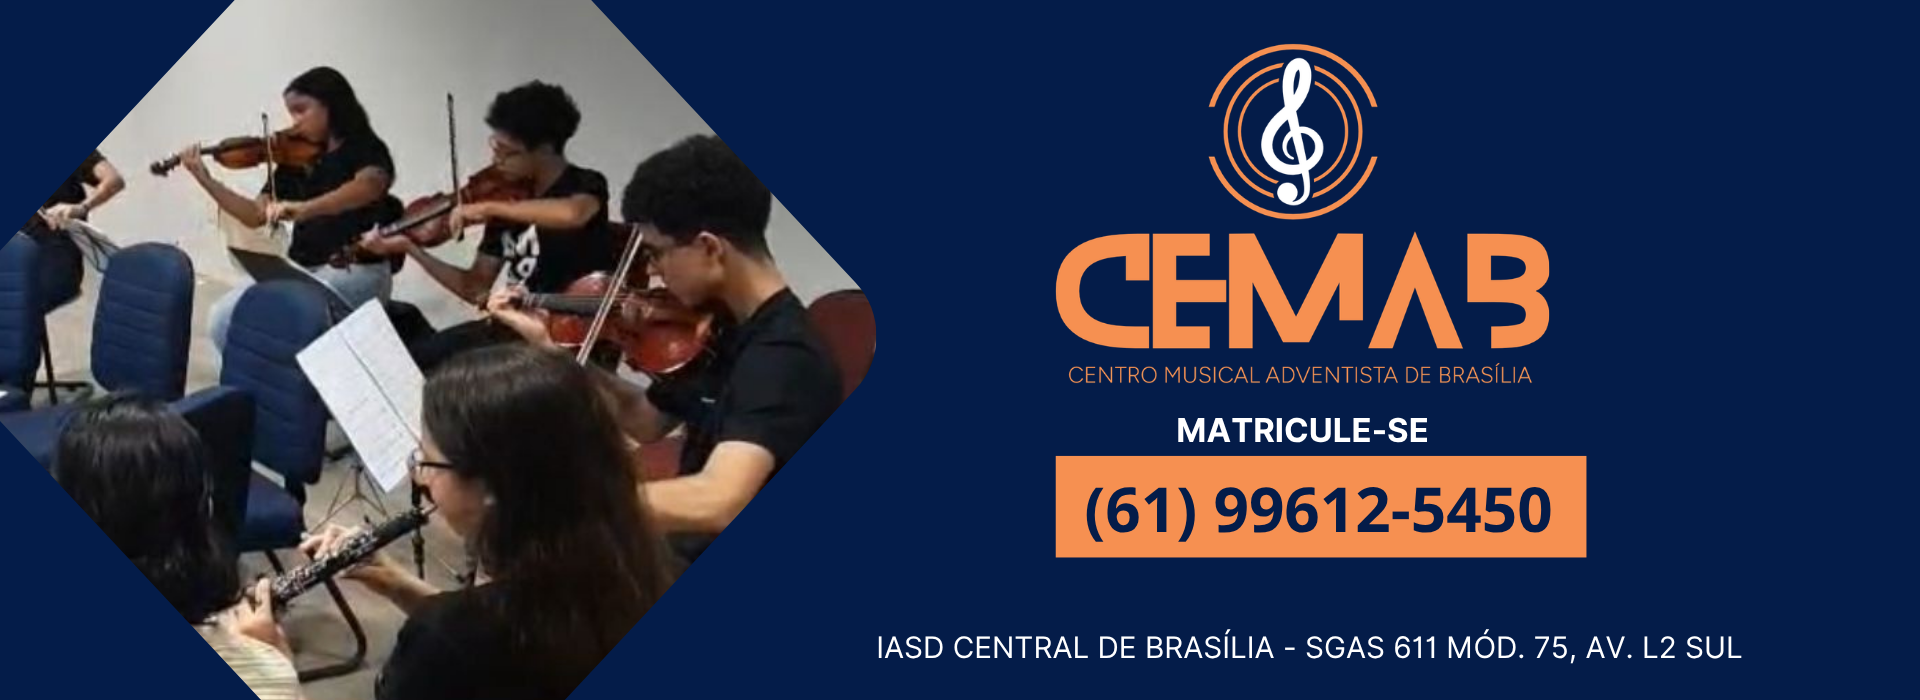
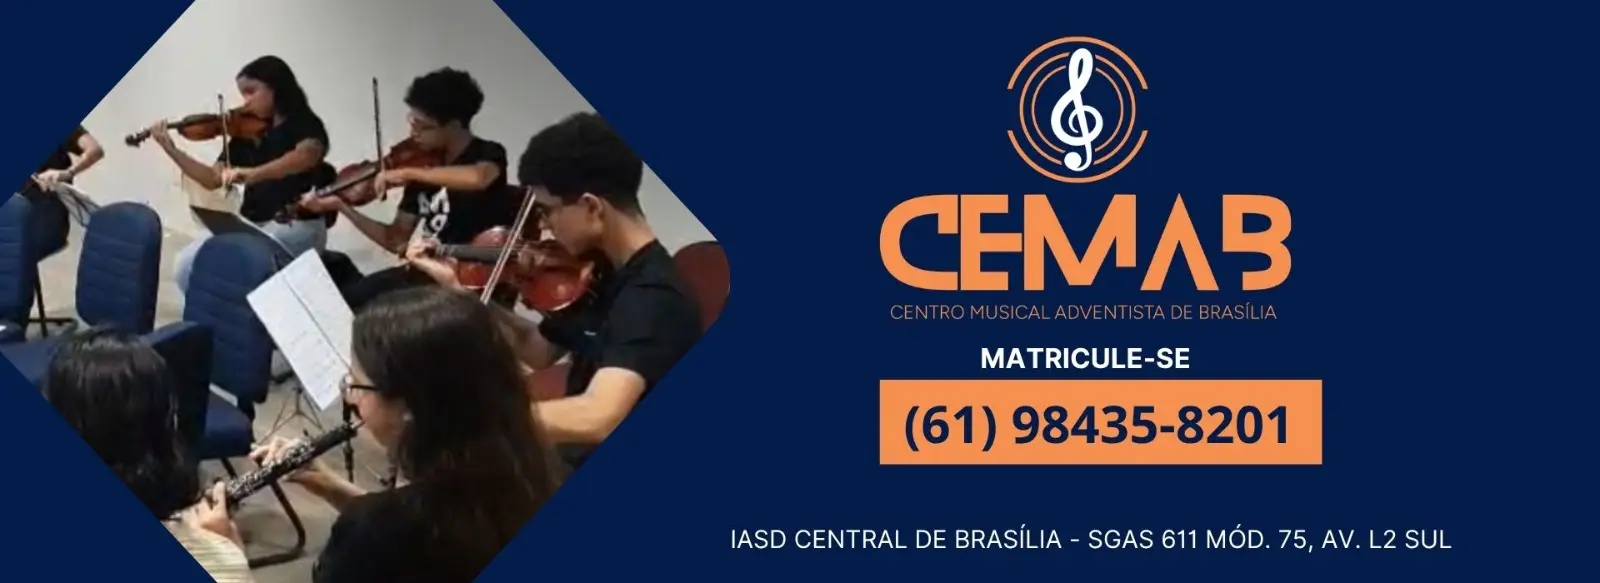
BOLETIM

diff --git a/resources/views/pages/boletim-digital.blade.php b/resources/views/pages/boletim-digital.blade.php
@@ -7,8 +7,9 @@
 @endpush
 
 @php
-    $boletimBase = 'img/boletim/boletim_05_09_2026';
+    $boletimBase = 'img/boletim/boletim_12_09_2026';
     $oracao365Base = $boletimBase . '/365 Dias de Oração';
+    $oracaoMinBase = $boletimBase . '/M. Oração';
 
     $linkify = static function (?string $text): ?string {
         if ($text === null || $text === '') {
@@ -22,7 +23,7 @@
         );
     };
 
-    $texto365Dias = 'Continuamos envolvidos no projeto Jornada de Oração: Frutos do Espírito. Ao longo deste mês, vamos orar pedindo a Deus que desenvolva em nossa vida o fruto: FIDELIDADE. O desafio da SEGUNDA semana de SETEMBRO: Ore por fidelidade nos relacionamentos, especialmente no casamento e na família, sendo leal nas atitudes e palavras.';
+    $texto365Dias = 'Continuamos envolvidos no projeto Jornada de Oração: Frutos do Espírito. Ao longo deste mês, vamos orar pedindo a Deus que desenvolva em nossa vida o fruto: FIDELIDADE. O desafio da TERCEIRA semana de SETEMBRO é: Ore por um coração generoso, disposto a compartilhar, tempo, atenção, recursos.';
 
     $boletins = [
         // Com descrição (script DOCX) — Tela inicial sem texto
@@ -42,7 +43,7 @@
         ],
         [
             'type' => 'image',
-            'src' => $oracao365Base . '/WhatsApp Image 2026-08-16 at 13.42.26.jpeg',
+            'src' => $oracao365Base . '/WhatsApp Image 2026-08-16 at 13.42.25 (2).jpeg',
             'alt' => '365 Dias de Oração — Jornada de Oração',
             'title' => '365 Dias de Oração',
             'text' => $texto365Dias,
@@ -59,7 +60,7 @@
             'src' => $boletimBase . '/QS.jpg',
             'alt' => 'Quebrando o Silêncio',
             'title' => 'Quebrando o Silêncio',
-            'text' => 'No próximo sábado, dia 12/09, teremos uma programação especial do Quebrando o Silêncio. Participe conosco!',
+            'text' => 'No dia 12/09, teremos uma programação especial do Quebrando o Silêncio. Participe conosco!',
         ],
         [
             'type' => 'image',
@@ -91,6 +92,13 @@
         ],
         [
             'type' => 'image',
+            'src' => $oracaoMinBase . '/WhatsApp Image 2026-01-06 at 18.19.43 (9).jpeg',
+            'alt' => 'Reunião de Oração',
+            'title' => 'Reunião de Oração',
+            'text' => 'Participe da nossa Reunião de Oração. Temos recebido grandes bênçãos do Senhor. Venha clamar pelo derramamento do Espírito Santo! Nossas reuniões acontecem a cada 15 dias, acompanhe e venha orar conosco.',
+        ],
+        [
+            'type' => 'image',
             'src' => $boletimBase . '/Quartas da Família (1).jpg',
             'alt' => 'Quartas da Família — Chaves da Felicidade Familiar',
             'title' => 'Quartas da Família',
@@ -108,11 +116,11 @@
             'src' => $boletimBase . '/Entrega de livros.jpg',
             'alt' => 'Entrega de livros missionários',
             'title' => 'Entrega de Livros',
-            'text' => 'O descanso acabou, mas a nossa missão só está começando! Agosto chegou e, com ele, renovamos nossas energias para o maior compromisso do nosso ano. As férias ficaram para trás, e agora o convite é direto para você: liderar e continuar o trabalho transformador de levar esperança às pessoas através do Impacto Esperança. Cada livro entregue é uma semente de transformação, uma resposta a uma oração e uma mensagem que atravessa vidas. A contagem regressiva já começou! Não deixe para depois. Ajuste sua agenda e junte-se a nós nessa corrente de fé e ação. A mensagem não pode parar, e a sua voz e suas mãos fazem toda a diferença nessa missão! Quem está pronto para fazer a diferença neste mês? Passe no Centro White e retire os livros que pretende entregar durante a semana.',
+            'text' => 'O descanso de agosto ficou para trás, mas a nossa missão não para! Setembro chegou trazendo um novo fôlego e o grande momento de avançarmos ainda mais com o Impacto Esperança. Cada livro entregue é uma semente plantada, uma resposta a uma oração e uma oportunidade real de levar esperança a quem precisa. A contagem regressiva já começou e a sua participação é indispensável para que essa mensagem continue transformando vidas. Ajuste sua agenda, una-se a nós nessa corrente de fé e ação e faça a diferença neste mês de setembro! Passe no Centro White, retire os livros que pretende entregar durante a semana e venha ser uma voz ativa nessa missão. Quem está pronto?',
         ],
         [
             'type' => 'image',
-            'src' => $boletimBase . '/DOUTORES.jpeg',
+            'src' => $boletimBase . '/Doutores.jpeg',
             'alt' => 'Doutores de Esperança',
             'title' => 'Doutores de Esperança',
             'text' => 'Junte-se aos Doutores de Esperança! Você já sentiu o desejo de levar um abraço, um sorriso e uma palavra de conforto para quem mais precisa? Nossos plantões estão de volta, e queremos convidar você para fazer parte dessa missão transformadora! Quer participar, mas ainda não faz parte do grupo? Esta é a sua oportunidade! Você pode começar acompanhando a nossa equipe como observador, conhecendo de perto a dinâmica do projeto antes de dar o próximo passo. Venha vivenciar essa experiência cheia de amor, empatia e alegria com a gente. Como posso me inscrever? Entre em contato agora mesmo com a Lu Mesquita pelo link https://wa.me/message/7M6UOXXMBRWRI1 e garanta as informações para participar. Venha fazer a diferença na vida de alguém e descubra a alegria de servir!',
@@ -120,9 +128,9 @@
         [
             'type' => 'image',
             'src' => $boletimBase . '/Classe de Saúde.jpeg',
-            'alt' => 'Classe de Saúde — temperança',
+            'alt' => 'Classe de Saúde — saúde mental',
             'title' => 'Classe de Saúde',
-            'text' => 'Viver com temperança não é sobre privação, mas sobre conquistar o equilíbrio que traz paz. Venha descobrir como o domínio próprio pode transformar suas escolhas, suas emoções e seus relacionamentos. "Mas o fruto do Espírito é: amor, alegria, paz, longanimidade, benignidade, bondade, fidelidade, mansidão, domínio próprio." — Gálatas 5:22-23. A maior vitória de uma pessoa não é controlar o mundo ao seu redor, mas aprender a dominar a si mesma. Participe da nossa palestra sobre temperança e fortaleça a sua mente para fazer escolhas mais sábias. "Melhor é o homem paciente do que o guerreiro, e o que domina o seu espírito do que o que toma uma cidade." — Provérbios 16:32. Em um mundo cheio de excessos e apressado, a temperança é a chave para uma vida leve, saudável e com propósito. Junte-se a nós nesta reflexão e assuma o controle do que realmente importa. "Pois Deus não nos deu um espírito de covardia, mas de poder, de amor e de domínio próprio." — 2 Timóteo 1:7.',
+            'text' => 'A CORAGEM DE OLHAR PARA DENTRO. Neste sábado, vamos conversar sobre saúde mental e sobre a coragem de reconhecer o que acontece dentro de nós. Olhar para dentro não é fraqueza. É o primeiro passo para compreender emoções, identificar padrões, cuidar das feridas e construir uma vida com mais equilíbrio, consciência e saúde. Cuidar da mente também é cuidar da vida. Sábado, 12/09/26, às 11h. Uma reflexão para quem deseja se conhecer, se cuidar e viver melhor.',
         ],
         [
             'type' => 'image',
@@ -137,6 +145,13 @@
             'alt' => 'Projeto Maná — assinatura da Lição da Escola Sabatina',
             'title' => 'Projeto Maná',
             'text' => 'A vida é feita de escolhas. E uma delas é decidir o que vai ocupar um espaço na nossa rotina. Assinar a Lição da Escola Sabatina é mais do que receber um material em casa. É escolher alimentar a fé, aprofundar o conhecimento da Palavra e reservar, todos os dias, um momento para estar com Deus. No Projeto Maná, queremos incentivar uma igreja que não apenas ouve sobre a Bíblia, mas que a estuda, vive e compartilha. Faça parte desse movimento. Assine a Lição da Escola Sabatina e transforme seu estudo em um compromisso diário com Deus. Acesse: https://projetomana.cpb.com.br/ ou pelo WhatsApp: (61) 98235-0008 ou ligue: (61) 3321-2021 ou 0800 979 0666.',
+        ],
+        [
+            'type' => 'image',
+            'src' => $boletimBase . '/Curso de Pão de Santa Ceia.jpg',
+            'alt' => 'Curso de Pães de Santa Ceia — ASA',
+            'title' => 'Curso de Pães de Santa Ceia',
+            'text' => 'Aprenda a fazer o tradicional Pãozinho de Santa Ceia! A ASA - Ação Solidária Adventista convida você para uma manhã especial com a tia Lourdes Castanho, acontecerá no dia 27/09, às 09h, na cozinha da ASA. O evento dispõe de 25 vagas e a inscrição é solidária: doe 1 litro de leite e garanta a sua inscrição. Acesse o link para se inscrever: https://forms.gle/DkaVwq9wbFjKoqm8A',
         ],
         [
             'type' => 'image',
@@ -189,7 +204,7 @@
         ],
         [
             'type' => 'image',
-            'src' => $boletimBase . '/CEMAB.jpg',
+            'src' => $boletimBase . '/Aulas CEMAB.jpg',
             'alt' => 'CEMAB — matrículas abertas',
             'title' => 'CEMAB',
             'text' => 'O Centro Musical Adventista de Brasília está com matrículas abertas. O futuro musical do seu filho começa aqui! Queridos pais e responsáveis, as matrículas para o 2º módulo de 2026 do CEMAB já estão abertas! Sabemos como a música é fundamental para o desenvolvimento do foco, da criatividade e da disciplina das crianças e jovens. Por isso, preparamos um semestre com muita prática e aprendizado! Vagas limitadas: Garanta o melhor horário para a rotina do seu filho. Clique no link e garanta agora mesmo sua vaga: https://forms.cloud.microsoft/Pages/ResponsePage.aspx?id=DQSIkWdsW0yxEjajBLZtrQAAAAAAAAAAAAMAAbJLm9tUNzdTWjRUSzZPNzFUUVlOODRYOFdGRVRRNC4u',
@@ -224,14 +239,14 @@
         ],
         [
             'type' => 'image',
-            'src' => $boletimBase . '/Liberdade Religiosa.jpg',
+            'src' => $boletimBase . '/PG LR.jpeg',
             'alt' => 'Pequeno Grupo — Liberdade Religiosa no Tempo do Fim',
             'title' => 'Liberdade Religiosa e Tempo do Fim',
-            'text' => 'Convidamos você para participar do Pequeno Grupo de Oração: Liberdade Religiosa no Tempo do Fim, um espaço semanal dedicado à comunhão e ao estudo da Palavra de Deus à luz das profecias bíblicas e dos acontecimentos contemporâneos. Nossos encontros ocorrem quinzenalmente às quintas-feiras, às 20h, sempre em formato online. O próximo encontro será no dia 27 de agosto, via Microsoft Teams. Contaremos com a ilustre presença do Pr. Hélio Carnassale — conferencista e uma das principais referências da Igreja Adventista do Sétimo Dia na área de Liberdade Religiosa —, que ministrará sobre o instigante tema: "Haverá liberdade religiosa após o decreto dominical?" Participe da reunião: https://teams.live.com/meet/9355849010881?p=1yeodiUPQHVWDUdvu3 Integre-se ao nosso grupo: https://chat.whatsapp.com/CYo7NkQ5jIMEpJ6BbSyl3X?mode=gi_t "Orai sem cessar." — 1 Tessalonicenses 5:17',
+            'text' => 'Convidamos você para participar do Pequeno Grupo de Oração: Liberdade Religiosa no Tempo do Fim, um espaço semanal dedicado à comunhão e ao estudo da Palavra de Deus à luz das profecias bíblicas e dos acontecimentos contemporâneos. Nossos encontros ocorrem quinzenalmente às quintas-feiras, às 20h, sempre em formato online. O próximo encontro será no dia 17 de setembro, via Microsoft Teams. Contaremos com a presença de Manassés Queiroz, teólogo, terapeuta familiar, individual e de casais, e sexólogo, com especializações em relacionamentos, sexualidade e dinâmica familiar. Com formação em Teologia e Publicidade, reúne mais de 34 anos de experiência pessoal e profissional dedicados ao estudo, à compreensão e ao cuidado das relações humanas, ajudando pessoas, casais e famílias a construírem relacionamentos mais saudáveis, conscientes e significativos. Tema do encontro: O diagnóstico da liberdade. Participe da reunião: https://teams.live.com/meet/9355849010881?p=1yeodiUPQHVWDUdvu3 Integre-se ao nosso grupo: https://chat.whatsapp.com/CYo7NkQ5jIMEpJ6BbSyl3X?mode=gi_t "Orai sem cessar." — 1 Tessalonicenses 5:17',
         ],
         [
             'type' => 'image',
-            'src' => $boletimBase . '/Código 318.png',
+            'src' => $boletimBase . '/Código 318.jpeg',
             'alt' => 'Código 318 — círculo de homens',
             'title' => 'Código 318',
             'text' => 'Cansado de carregar tudo sozinho? O CÓDIGO 318 é um círculo de homens que se reúnem para serem treinados por Deus e formarem uns aos outros. Não é mais um evento. É um lugar para você ser visto, ouvido e fortalecido. Primeira reunião: 12 de setembro, 16h30, Salão Jovem. Traga a sua história e traga um amigo. Homens treinados por Deus. Homens que formam homens. CÓDIGO 318. O seu lugar é no círculo. Entre para o nosso grupo acesse o link: https://chat.whatsapp.com/FTLmis6gSdsKXbqCafHcrd?s=cl&p=i&mlu=0&ilr=0',

diff --git a/resources/views/pages/home.blade.php b/resources/views/pages/home.blade.php
@@ -22,7 +22,7 @@
         </div>
         <div class="item">
             <a href="{{ route('cemab') }}" target="_blank" rel="noopener noreferrer" class="carousel-cta-link">
-                <img src="{{ asset('img/carrousel/cemab.webp') }}" alt="Slide 3 - CEMAB, Centro Musical Adventista de Brasília: matricule-se, (61) 99612-5450" decoding="async" width="1920" height="700">
+                <img src="{{ asset('img/carrousel/cemab.webp') }}" alt="Slide 3 - CEMAB, Centro Musical Adventista de Brasília: matricule-se, (61) 98435-8201" decoding="async" width="1600" height="583">
                 <span class="carousel-click-overlay" aria-hidden="true">
                     <span class="carousel-click-hint">
                         <i class="bi bi-hand-index"></i>
